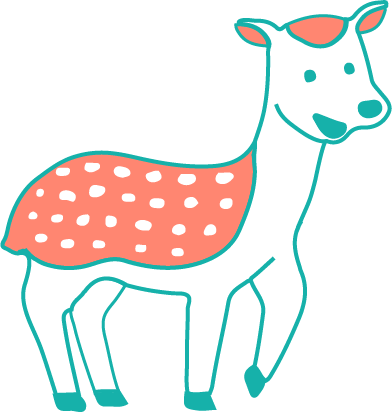
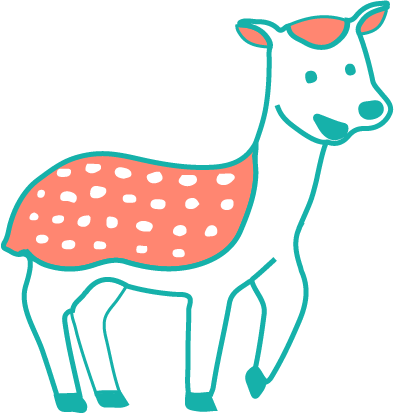
feat: 新增首頁插圖

diff --git a/src/sass/frontpages/_index.scss b/src/sass/frontpages/_index.scss
@@ -8,16 +8,69 @@
     background-size: auto;
     background-position-x: center;
     background-repeat: no-repeat;
-    @include borderTest();
+    position: relative;
 
+    img{
+        position: absolute;
+    }
 
-    // .indexTopBg{
-    //     position: absolute;
-    //     top: 0;
-    //     left: 50%;
-    //     transform: translateX(-50%);
+    //插圖
+    .sun{
+        width: 100px;
+        top: 120px;
+        left: 1000px;
+    }
+    .top-cloud{
+        width: 130px;
+    }
+    .top-cloud1{
+        top: 180px;
+        left: 35px;
+    }
+    .top-cloud2{
+        top: 100px;
+        left: 200px;
+    }
+    .top-cloud3{
+        top: 150px;
+        left:870px;
+    }
+    .top-cloud4{
+        top: 70px;
+        left: 1100px;
+    }
+    .top-horse{
+        width: 240px;
+        top: 210px;
+        left: 40px;
+    }
+    .top-deer{
+        width: 210px;
+        top: 330px;
+        left: 180px;
+        z-index: 2;
+    }
+    .top-sheep{
+        width: 250px;
+        top: 300px;
+        left: 350px;
+    }
+    .top-pig{
+        width: 210px;
+        top: 420px;
+        left: 540px;
+    }
+    .top-alpaca{
+        width: 210px;
+        top: 300px;
+        left: 730px;
+    }
+    .top-cow{
+        width: 340px;
+        top: 260px;
+        left: 885px;
+    }
 
-    // }
 }
 .indexTop.container-fluid{
     padding: 0;
@@ -26,6 +79,16 @@
 // section 1: intro
 .indexWelcome{
     position: relative;
+    .cloud5{
+        position: absolute;
+        top: 90px;
+        right: 10px;
+    }
+    .cloud6{
+        position: absolute;
+        top: -70px;
+        right: -180px;
+    }
 
     .welcomeTitle{
         position: absolute;
@@ -72,6 +135,13 @@
     display: flex;
     flex-basis: 0;
     justify-content: space-evenly;
+    position: relative;
+    .cloud7{
+        position: absolute;
+        top: -150px;
+        left: -100px;
+        z-index: -1;
+    }
 
     .indexNewsTitle{
         h6{
@@ -185,7 +255,6 @@
 
 //section 5: access
 .indexInfo{
-    margin-bottom: 120px;
     .indexMap{
         width: 100%;
         height: 250px;
@@ -289,4 +358,9 @@
             line-height: 154px;
         }
     }
+}
+
+.outer-wrapper{
+    width: 100%;
+    overflow-x: hidden;
 }

diff --git a/src/index.html b/src/index.html
@@ -12,12 +12,26 @@
     @@include('./layout/header.html')
 
     <!-- 首圖 -->
+    <div class="outer-wrapper">
+
     <div class="indexTop container-fluid">
-        <!-- <img class="indexTopBg" src="img/index/index_top_bg_1920.png" alt=""> -->
+       <img src="img/index/sun.png" alt="sun" class="sun">
+       <img src="img/index/cloud.png" alt="cloud" class="top-cloud top-cloud1">
+       <img src="img/index/cloud.png" alt="cloud" class="top-cloud top-cloud2">
+       <img src="img/index/cloud.png" alt="cloud" class="top-cloud top-cloud3">
+       <img src="img/index/cloud.png" alt="cloud" class="top-cloud top-cloud4">
+       <img src="img/index/horse.png" alt="horse" class="top-horse">
+       <img src="img/index/deer.png" alt="deer" class="top-deer">
+       <img src="img/index/sheep.png" alt="sheep" class="top-sheep">
+       <img src="img/index/pig.png" alt="pig" class="top-pig">
+       <img src="img/index/alpaca.png" alt="alpaca" class="top-alpaca">
+       <img src="img/index/cow.png" alt="cow" class="top-cow">
     </div>
 
     <!-- Section 1: 介紹 -->
     <section class="indexWelcome container-lg">
+        <img src="img/index/cloud.png" alt="cloud" class="side-cloud cloud5">
+        <img src="img/index/cloud.png" alt="cloud" class="side-cloud cloud6">
         <h3 class="welcomeTitle">歡迎來到Sìkha牧場</h3>
         <img src="img/material/circle_yellow_800.png" class="decYellow" alt="decoration_circle">
         <img src="img/index/welcometo.png" class="mainImg" alt="cow_eating_grass">
@@ -26,8 +40,10 @@
         </div>
     </section>
 
+
     <!-- Section 2: 最新消息 -->
     <section class="indexNews container-lg margintop_250">
+        <img src="img/index/cloud.png" alt="cloud" class="side-cloud cloud7">
         <div class="indexNewsTitle">
             <h3>最新消息</h3>
             <h6>NEWS</h6>
@@ -109,6 +125,8 @@
             <h5 class="viewText">瀏覽詳情</h5>
         </a>
     </section>
+    
+    </div>
 
     <!-- footer -->
     @@include('./layout/footer.html')
